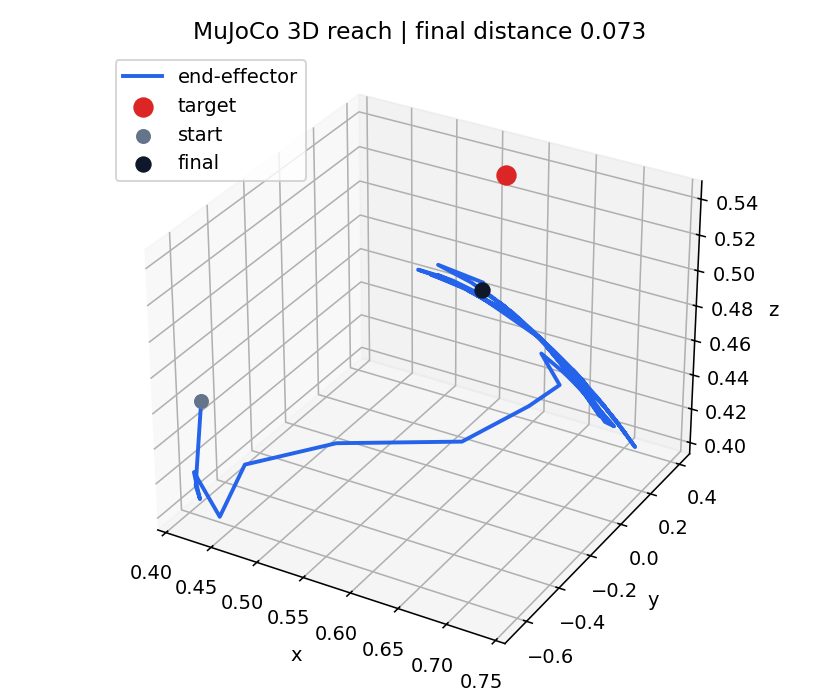
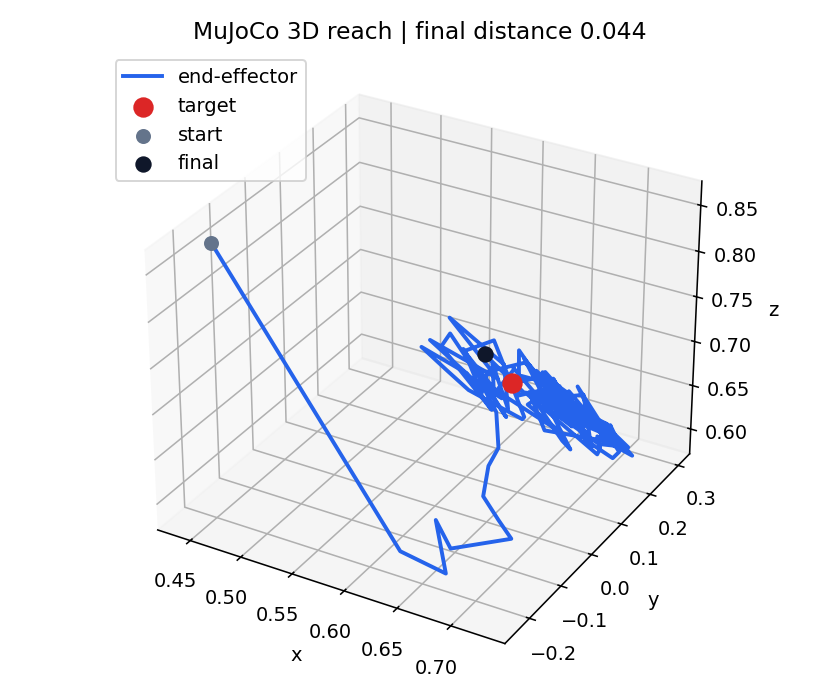
Improve MuJoCo 3D demo presentation

diff --git a/scripts/mujoco_3d_demo.py b/scripts/mujoco_3d_demo.py
@@ -44,10 +44,21 @@ def parse_args() -> argparse.Namespace:
     parser.add_argument("--num-layers", type=int, default=4)
     parser.add_argument("--num-heads", type=int, default=4)
     parser.add_argument("--num-inference-steps", type=int, default=4)
+    parser.add_argument("--num-candidates", type=int, default=1)
     parser.add_argument("--control-cycles", type=int, default=10)
     parser.add_argument("--execute-steps", type=int, default=12)
     parser.add_argument("--frameskip", type=int, default=16)
     parser.add_argument("--seed", type=int, default=21)
+    parser.add_argument("--mount-height", type=float, default=0.18)
+    parser.add_argument("--floor-height", type=float, default=-0.25)
+    parser.add_argument("--target-x", type=float, default=0.62)
+    parser.add_argument("--target-y", type=float, default=0.18)
+    parser.add_argument("--target-z", type=float, default=0.66)
+    parser.add_argument("--initial-yaw", type=float, default=-0.35)
+    parser.add_argument("--initial-shoulder", type=float, default=-0.30)
+    parser.add_argument("--initial-elbow", type=float, default=1.15)
+    parser.add_argument("--tracking-gain", type=float, default=1.0)
+    parser.add_argument("--max-joint-step", type=float, default=10.0)
     return parser.parse_args()
 
 
@@ -112,8 +123,10 @@ def train_or_load(args: argparse.Namespace, arm: SimpleArm3D) -> IMeanFlowPolicy
     return policy
 
 
-def make_mujoco_xml(target_xyz: np.ndarray) -> str:
+def make_mujoco_xml(target_xyz: np.ndarray, mount_height: float, floor_height: float) -> str:
     tx, ty, tz = target_xyz
+    pedestal_z = 0.5 * (mount_height + floor_height)
+    pedestal_half_height = 0.5 * (mount_height - floor_height)
     return textwrap.dedent(
         f"""
         <mujoco model="imeanflow_3d_arm">
@@ -126,9 +139,10 @@ def make_mujoco_xml(target_xyz: np.ndarray) -> str:
           <worldbody>
             <light pos="0 -2 3" dir="0 1 -1"/>
             <camera name="demo" pos="1.8 -2.4 1.6" xyaxes="0.82 0.57 0 -0.30 0.43 0.85"/>
-            <geom type="plane" size="2 2 0.02" rgba="0.92 0.92 0.88 1"/>
+            <geom type="plane" pos="0 0 {floor_height:.4f}" size="2 2 0.02" rgba="0.92 0.92 0.88 1"/>
+            <geom type="cylinder" pos="0 0 {pedestal_z:.4f}" size="0.075 {pedestal_half_height:.4f}" rgba="0.35 0.35 0.38 1"/>
             <site name="target" pos="{tx:.4f} {ty:.4f} {tz:.4f}" type="sphere" size="0.045" rgba="1 0.1 0.1 1"/>
-            <body name="base" pos="0 0 0.18">
+            <body name="base" pos="0 0 {mount_height:.4f}">
               <joint name="yaw" type="hinge" axis="0 0 1" damping="1.2" range="-3.14 3.14"/>
               <geom type="cylinder" size="0.08 0.08" rgba="0.2 0.2 0.25 1"/>
               <body name="upper" pos="0 0 0">
@@ -157,12 +171,18 @@ def run_mujoco_rollout(
     policy: IMeanFlowPolicy,
     arm: SimpleArm3D,
     args: argparse.Namespace,
-) -> tuple[np.ndarray, np.ndarray, float, list[np.ndarray]]:
+) -> tuple[np.ndarray, np.ndarray, np.ndarray, float, list[np.ndarray]]:
     torch.manual_seed(args.seed)
-    target_xyz = torch.tensor([0.58, 0.32, 0.54], dtype=torch.float32)
-    initial_q = torch.tensor([-0.95, -0.45, 1.15], dtype=torch.float32)
+    policy_target_xyz = torch.tensor([args.target_x, args.target_y, args.target_z], dtype=torch.float32)
+    mount_offset = args.mount_height - arm.base_height
+    mujoco_target_xyz = policy_target_xyz + torch.tensor([0.0, 0.0, mount_offset], dtype=torch.float32)
+    initial_q = torch.tensor(
+        [args.initial_yaw, args.initial_shoulder, args.initial_elbow], dtype=torch.float32
+    )
 
-    model = mujoco.MjModel.from_xml_string(make_mujoco_xml(target_xyz.numpy()))
+    model = mujoco.MjModel.from_xml_string(
+        make_mujoco_xml(mujoco_target_xyz.numpy(), args.mount_height, args.floor_height)
+    )
     data = mujoco.MjData(model)
     data.qpos[:] = initial_q.numpy()
     data.ctrl[:] = initial_q.numpy()
@@ -179,11 +199,23 @@ def run_mujoco_rollout(
     policy.eval()
     for _ in range(args.control_cycles):
         q = torch.tensor(data.qpos[:3].copy(), dtype=torch.float32, device=policy.device)
-        obs = arm.observation(q, target_xyz.to(policy.device)).unsqueeze(0)
-        chunk = policy.sample_action_chunk(obs, num_steps=args.num_inference_steps)[0].cpu().numpy()
+        obs = arm.observation(q, policy_target_xyz.to(policy.device)).unsqueeze(0)
+        if args.num_candidates > 1:
+            obs_batch = obs.expand(args.num_candidates, -1)
+            candidates = policy.sample_action_chunk(obs_batch, num_steps=args.num_inference_steps)
+            candidate_ee = arm.forward_kinematics(candidates[:, -1])[:, -1]
+            distances = torch.linalg.norm(candidate_ee - policy_target_xyz.to(policy.device), dim=-1)
+            chunk = candidates[distances.argmin()].cpu().numpy()
+        else:
+            chunk = policy.sample_action_chunk(obs, num_steps=args.num_inference_steps)[0].cpu().numpy()
         for command in chunk[1 : args.execute_steps + 1]:
             command = np.clip(command, [-np.pi, -1.35, 0.02], [np.pi, 1.35, 2.55])
-            data.ctrl[:] = command
+            delta = np.clip(
+                args.tracking_gain * (command - data.ctrl[:]),
+                -args.max_joint_step,
+                args.max_joint_step,
+            )
+            data.ctrl[:] = data.ctrl[:] + delta
             for _ in range(args.frameskip):
                 mujoco.mj_step(model, data)
             q_history.append(data.qpos[:3].copy())
@@ -193,8 +225,8 @@ def run_mujoco_rollout(
 
     renderer.close()
     ee = np.asarray(ee_history)
-    final_distance = float(np.linalg.norm(ee[-1] - target_xyz.numpy()))
-    return np.asarray(q_history), ee, final_distance, frames
+    final_distance = float(np.linalg.norm(ee[-1] - mujoco_target_xyz.numpy()))
+    return np.asarray(q_history), ee, mujoco_target_xyz.numpy(), final_distance, frames
 
 
 def save_plot(ee: np.ndarray, target_xyz: np.ndarray, final_distance: float, path: Path) -> None:
@@ -228,8 +260,7 @@ def main() -> None:
     arm = SimpleArm3D()
     policy = train_or_load(args, arm)
 
-    _, ee, final_distance, frames = run_mujoco_rollout(policy, arm, args)
-    target_xyz = np.array([0.58, 0.32, 0.54], dtype=np.float32)
+    _, ee, target_xyz, final_distance, frames = run_mujoco_rollout(policy, arm, args)
     png_path = args.output_dir / "mujoco_3d_demo.png"
     gif_path = args.output_dir / "mujoco_3d_demo.gif"
     save_plot(ee, target_xyz, final_distance, png_path)

diff --git a/docs/interview_guide_zh.md b/docs/interview_guide_zh.md
@@ -48,6 +48,7 @@ python scripts/sim_demo.py --train-steps 300
 - `SimpleArm3D` 和 `Reach3DDataset` 生成 yaw/shoulder/elbow 三自由度 reaching demonstrations；
 - `scripts/mujoco_3d_demo.py` 用同一个 iMeanFlow 策略生成关节目标 chunk；
 - MuJoCo 里用 position actuator 跟踪这些目标，验证动作 chunk 在动力学仿真里是否可执行；
+- 场景里把机械臂安装在一个小基座上，避免 demo 看起来像连杆贴在地面运动；
 - 输出 `assets/mujoco_3d_demo.png` 和 `assets/mujoco_3d_demo.gif`。
 
 运行命令：

diff --git a/README.md b/README.md
@@ -165,7 +165,9 @@ python scripts/mujoco_3d_demo.py --train-steps 1200
 ```
 
 This trains a small 3-DoF yaw/shoulder/elbow reaching policy, then runs it in
-MuJoCo with position actuators. The script writes:
+MuJoCo with position actuators. The arm is mounted on a small pedestal so the
+visualization looks like a table-mounted robot rather than a linkage lying on
+the floor. The script writes:
 
 ```text
 assets/mujoco_3d_demo.png
